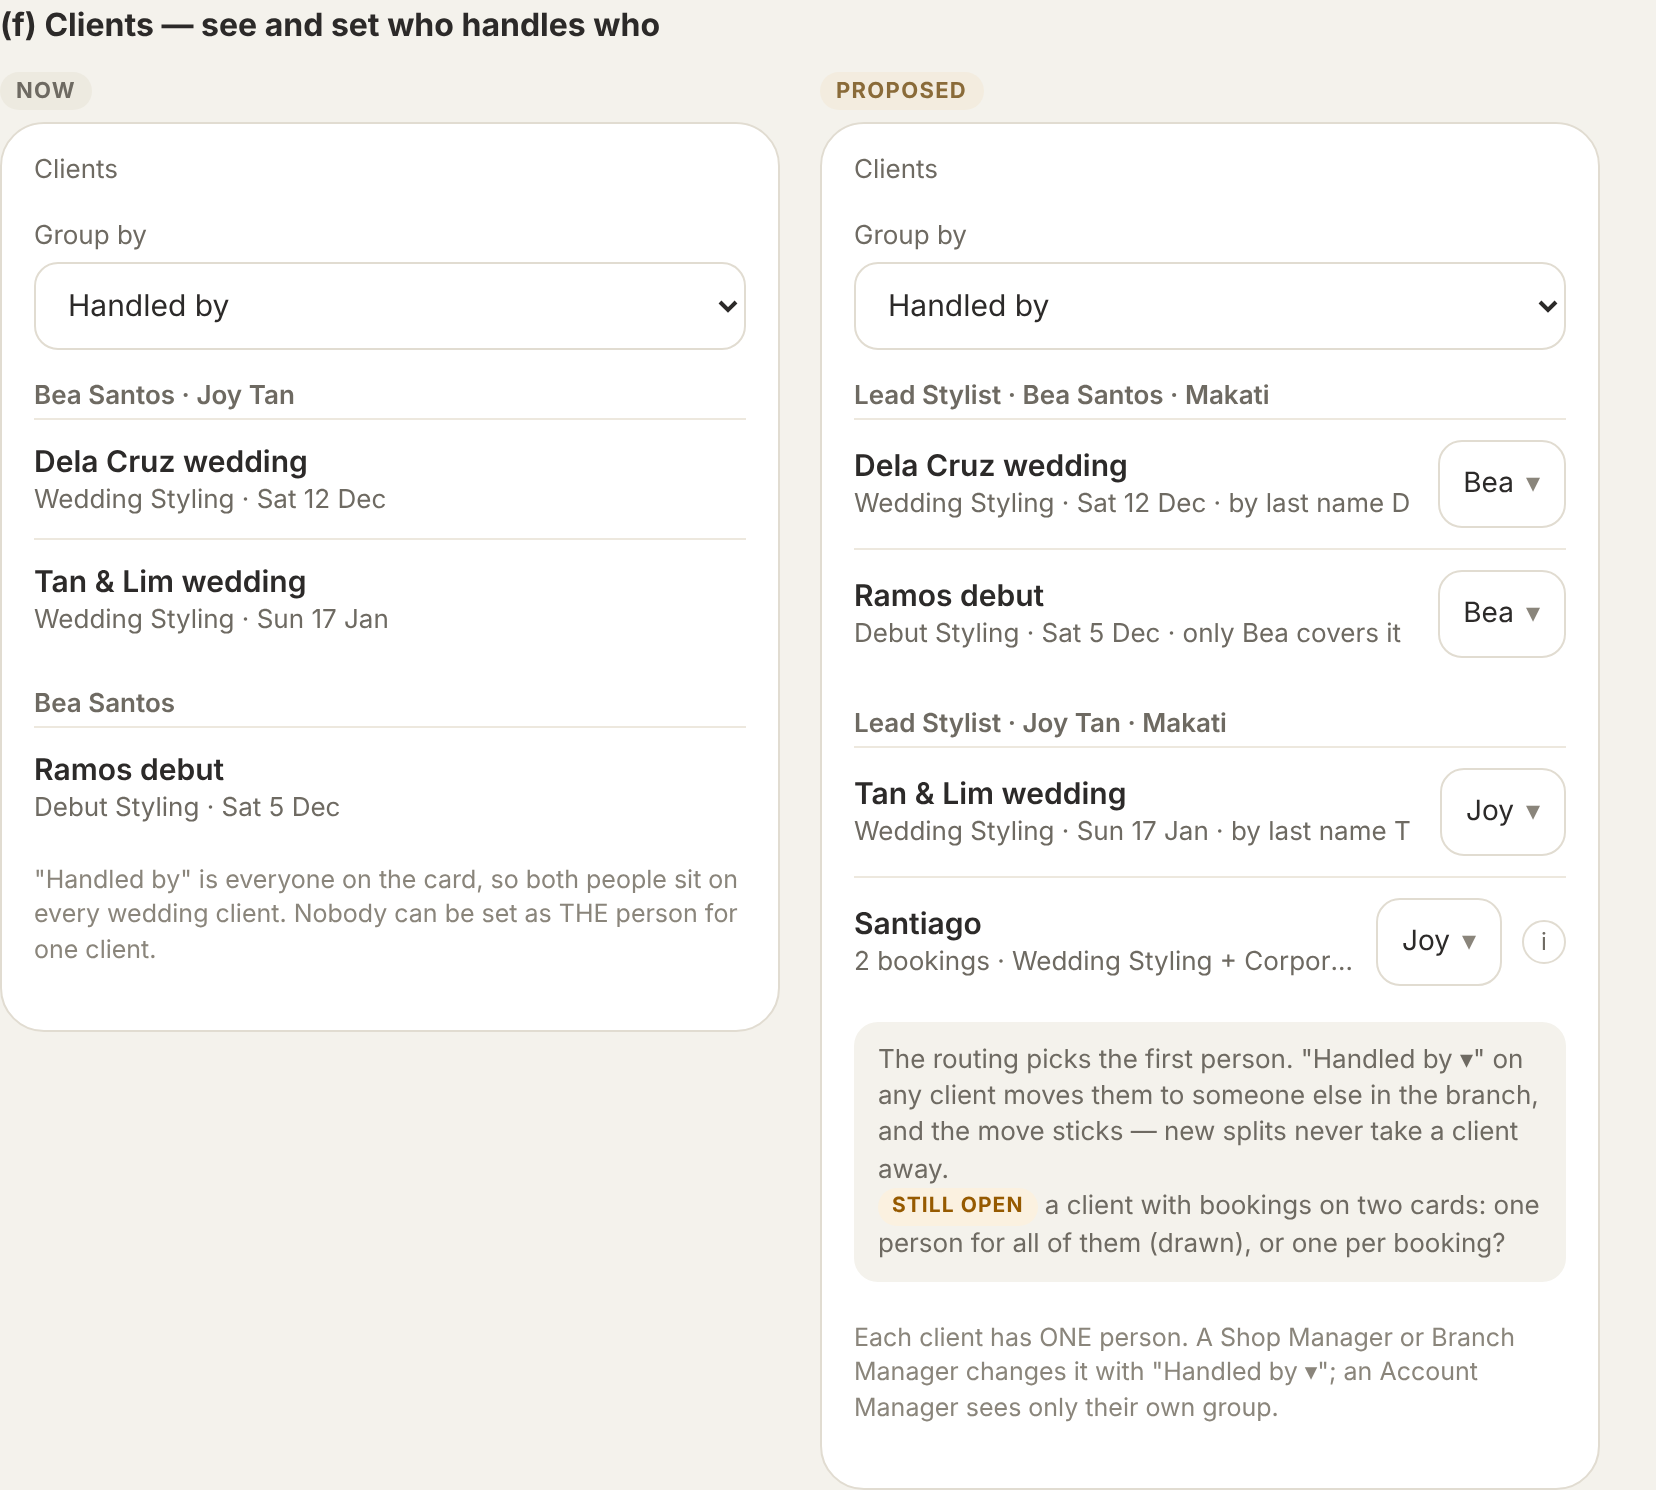
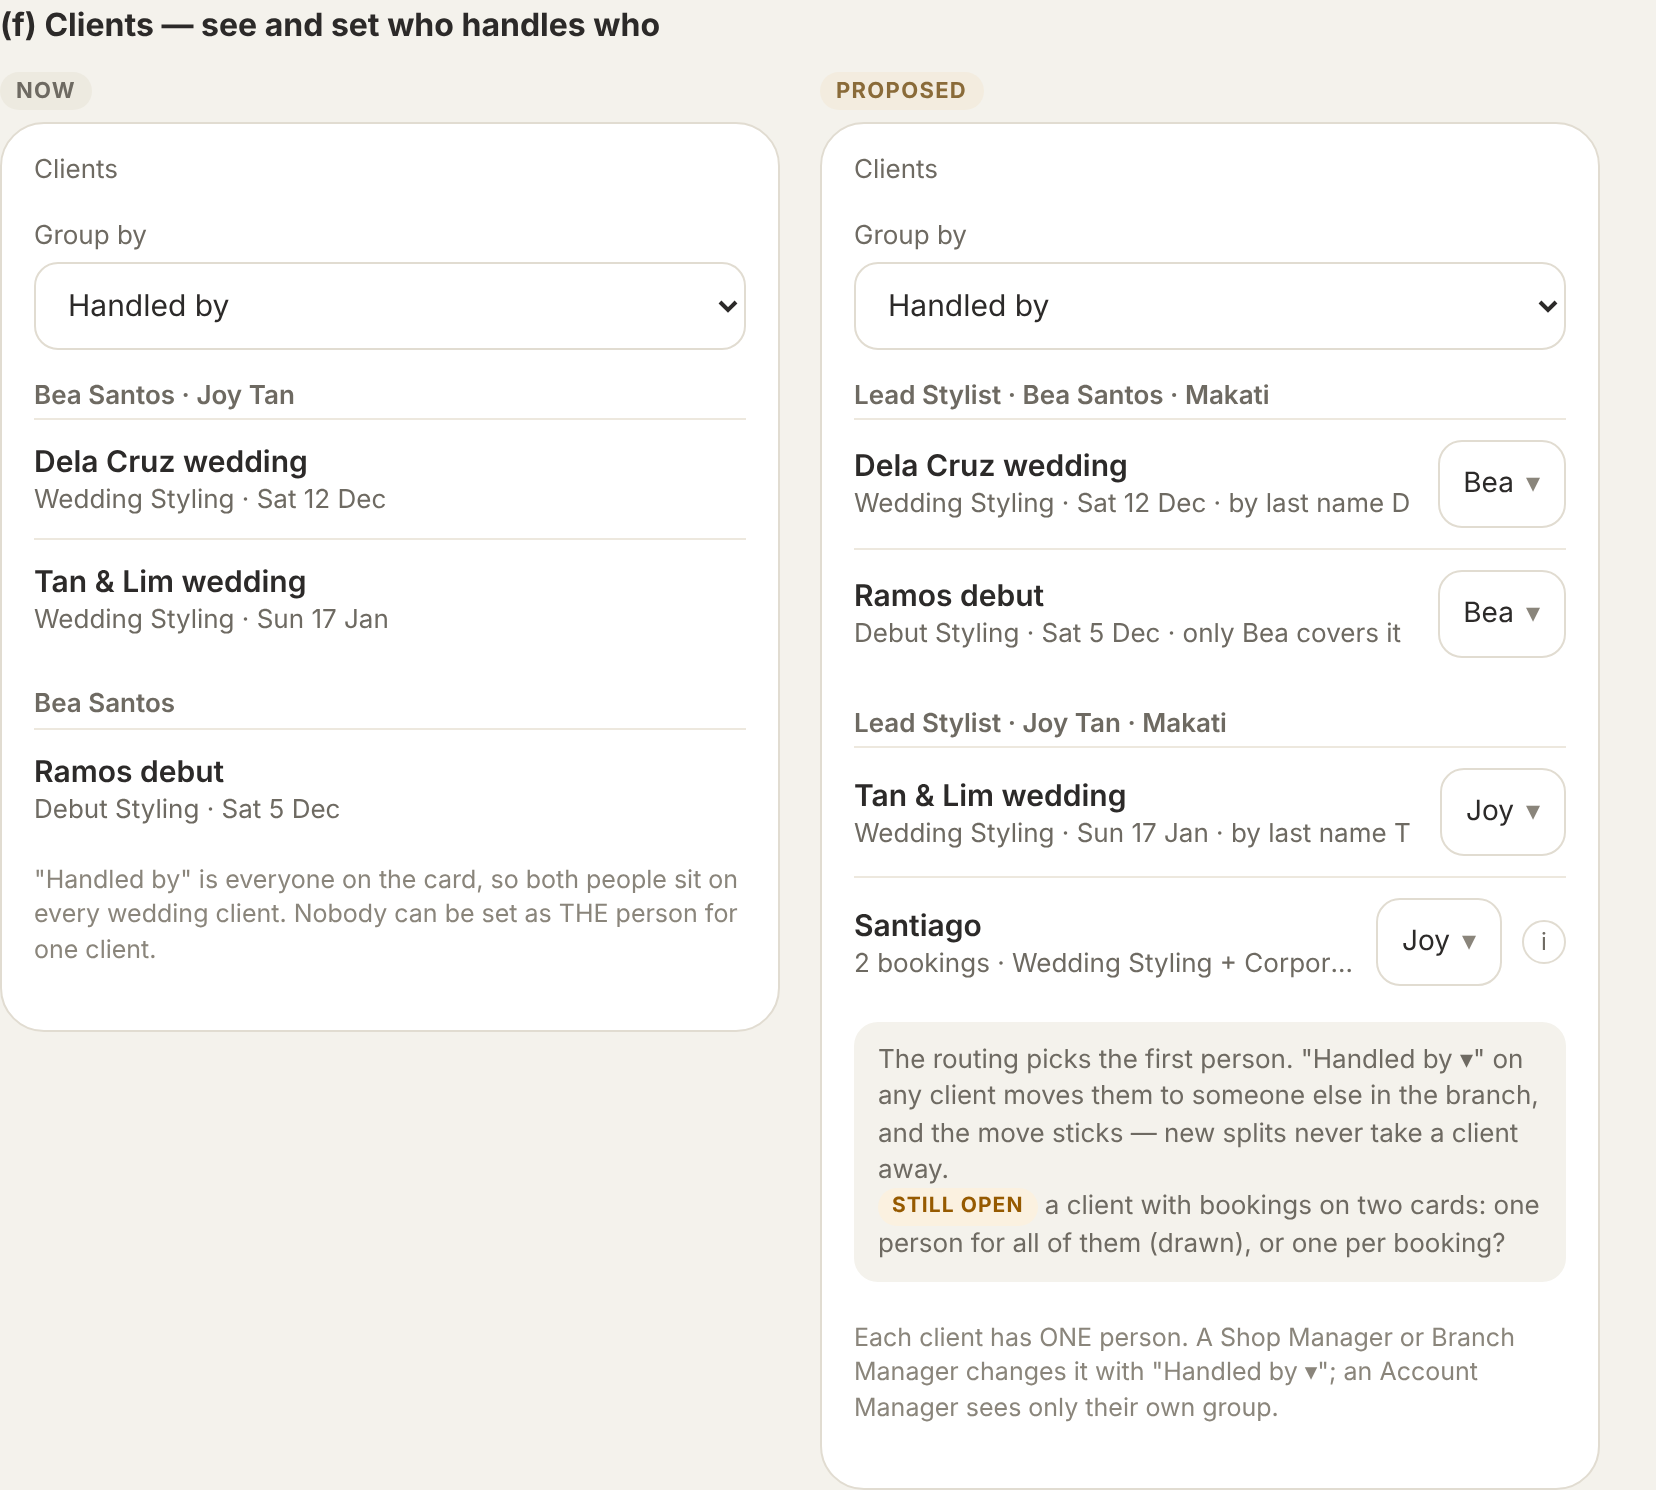
docs(supplier-team): fair inquiry split by last-name quantiles (1 to 10 Account Managers), not half the alphabet
Claude-Session: https://claude.ai/code/session_01EvosmSvHajsHkKkQLLinZb

diff --git a/build-sessions/SUPPLIER-ROLES-PAGE-2026-11-19.html b/build-sessions/SUPPLIER-ROLES-PAGE-2026-11-19.html
@@ -363,12 +363,12 @@
 
             <div class="role" style="margin-top:8px">
               <div class="top"><div class="grow"><div class="t">Wedding Styling card</div><div class="l">Covered by Bea, Joy</div></div></div>
-              <div class="l" style="margin:6px 0 0;font-weight:600">Wedding · split evenly</div>
-              <div class="row" style="min-height:44px"><span class="ava">BS</span><div class="grow"><div class="rolename">Lead Stylist · Bea Santos</div></div><span class="badge">A – M</span></div>
-              <div class="row" style="min-height:44px"><span class="ava">JT</span><div class="grow"><div class="rolename">Lead Stylist · Joy Tan</div></div><span class="badge">N – Z</span><span class="pick btn">Adjust</span></div>
-              <div class="l" style="margin:6px 0 0;font-weight:600">Every other event · split evenly</div>
-              <div class="row" style="min-height:44px"><span class="ava">BS</span><div class="grow"><div class="rolename">Bea Santos</div></div><span class="badge">A – M</span></div>
-              <div class="row" style="min-height:44px"><span class="ava">JT</span><div class="grow"><div class="rolename">Joy Tan</div></div><span class="badge">N – Z</span><span class="pick btn">Adjust</span></div>
+              <div class="l" style="margin:6px 0 0;font-weight:600">Wedding · fair split, from your past clients</div>
+              <div class="row" style="min-height:44px"><span class="ava">BS</span><div class="grow"><div class="rolename">Lead Stylist · Bea Santos</div></div><span class="badge">A – Ma · 51%</span></div>
+              <div class="row" style="min-height:44px"><span class="ava">JT</span><div class="grow"><div class="rolename">Lead Stylist · Joy Tan</div></div><span class="badge">Me – Z · 49%</span><span class="pick btn">Adjust</span></div>
+              <div class="l" style="margin:6px 0 0;font-weight:600">Every other event · fair split, from your past clients</div>
+              <div class="row" style="min-height:44px"><span class="ava">BS</span><div class="grow"><div class="rolename">Bea Santos</div></div><span class="badge">A – K · 50%</span></div>
+              <div class="row" style="min-height:44px"><span class="ava">JT</span><div class="grow"><div class="rolename">Joy Tan</div></div><span class="badge">L – Z · 50%</span><span class="pick btn">Adjust</span></div>
             </div>
             <div class="role">
               <div class="top"><div class="grow"><div class="t">Debut Styling card</div><div class="l">Covered by Bea only</div></div></div>
@@ -383,9 +383,9 @@
 
             <div class="role">
               <div class="t" style="font-size:14px">Adjust · Wedding</div>
-              <div style="display:flex;gap:8px;align-items:center;margin-top:8px"><span class="grow l">Bea Santos takes</span><select style="width:auto"><option>A</option></select><span>–</span><select style="width:auto"><option>K</option><option selected>M</option><option>P</option></select></div>
-              <div class="l" style="margin-top:6px">Joy Tan takes the rest: N – Z</div>
-              <span class="pick btn" style="margin-top:8px">Reset to even</span>
+              <div style="display:flex;gap:8px;align-items:center;margin-top:8px"><span class="grow l">Cut between Bea and Joy at</span><select style="width:auto"><option>L · 44% / 56%</option><option selected>Ma | Me · 51% / 49%</option><option>N · 58% / 42%</option></select></div>
+              <div class="l" style="margin-top:6px">Each choice shows the share of your past wedding clients each person would get. A cut can fall inside a busy letter (Ma | Me).</div>
+              <span class="pick btn" style="margin-top:8px">Reset to fair split</span>
             </div>
 
             <p class="note">
@@ -402,7 +402,7 @@
         <span class="tag new">Proposed · when the branch grows</span>
         <div class="phone" style="width:100%;max-width:820px">
           <div class="scr" style="padding-top:14px">
-            <div class="t">Makati branch · Wedding — the split re-sets itself when an Account Manager joins or leaves</div>
+            <div class="t">Makati branch · Wedding — the fair split re-works itself when an Account Manager joins or leaves</div>
             <div style="display:flex;gap:12px;flex-wrap:wrap;margin-top:10px">
               <div style="flex:1 1 220px;border:1px solid var(--line);border-radius:14px;padding:10px 12px">
                 <div class="l">1 Account Manager</div>
@@ -410,17 +410,30 @@
               </div>
               <div style="flex:1 1 220px;border:1px solid var(--line);border-radius:14px;padding:10px 12px">
                 <div class="l">+ Joy joins → 2</div>
-                <div class="row" style="min-height:40px"><div class="grow">Bea</div><span class="badge">A – M</span></div>
-                <div class="row" style="min-height:40px"><div class="grow">Joy</div><span class="badge">N – Z</span></div>
+                <div class="row" style="min-height:40px"><div class="grow">Bea</div><span class="badge">A – Ma · 51%</span></div>
+                <div class="row" style="min-height:40px"><div class="grow">Joy</div><span class="badge">Me – Z · 49%</span></div>
               </div>
               <div style="flex:1 1 220px;border:1px solid var(--line);border-radius:14px;padding:10px 12px">
                 <div class="l">+ Mark joins → 3</div>
-                <div class="row" style="min-height:40px"><div class="grow">Bea</div><span class="badge">A – H</span></div>
-                <div class="row" style="min-height:40px"><div class="grow">Joy</div><span class="badge">I – Q</span></div>
-                <div class="row" style="min-height:40px"><div class="grow">Mark</div><span class="badge">R – Z</span></div>
+                <div class="row" style="min-height:40px"><div class="grow">Bea</div><span class="badge">A – Da · 34%</span></div>
+                <div class="row" style="min-height:40px"><div class="grow">Joy</div><span class="badge">De – Ma · 33%</span></div>
+                <div class="row" style="min-height:40px"><div class="grow">Mark</div><span class="badge">Me – Z · 33%</span></div>
               </div>
             </div>
-            <p class="note">Even means by letters, in the order people joined. Someone leaving re-splits the same way (3 → 2 goes back to A–M / N–Z). Inquiries already given out stay with the person who has them. A split a Shop or Branch Manager adjusted is not re-set — they get a note "Joy joined · Reset to even?" instead.</p>
+            <div style="margin-top:14px;overflow-x:auto">
+              <div class="t" style="font-size:14px">The same rule from 1 up to 10 Account Managers on one card and event type</div>
+              <table style="border-collapse:collapse;font-size:13px;margin-top:6px;width:100%">
+                <thead><tr style="text-align:left;color:var(--slate-2)"><th style="padding:4px 8px">People</th><th style="padding:4px 8px">Cuts</th><th style="padding:4px 8px">Cut where the running total reaches</th><th style="padding:4px 8px">Each gets</th></tr></thead>
+                <tbody><tr><td style="padding:4px 8px">1</td><td style="padding:4px 8px">0</td><td style="padding:4px 8px">— (A – Z)</td><td style="padding:4px 8px">≈ 100%</td></tr><tr><td style="padding:4px 8px">2</td><td style="padding:4px 8px">1</td><td style="padding:4px 8px">50%</td><td style="padding:4px 8px">≈ 50%</td></tr><tr><td style="padding:4px 8px">3</td><td style="padding:4px 8px">2</td><td style="padding:4px 8px">33.3% · 66.7%</td><td style="padding:4px 8px">≈ 33.3%</td></tr><tr><td style="padding:4px 8px">4</td><td style="padding:4px 8px">3</td><td style="padding:4px 8px">25% · 50% · 75%</td><td style="padding:4px 8px">≈ 25%</td></tr><tr><td style="padding:4px 8px">5</td><td style="padding:4px 8px">4</td><td style="padding:4px 8px">20% · 40% · 60% · 80%</td><td style="padding:4px 8px">≈ 20%</td></tr><tr><td style="padding:4px 8px">6</td><td style="padding:4px 8px">5</td><td style="padding:4px 8px">16.7% · 33.3% · 50% · 66.7% · 83.3%</td><td style="padding:4px 8px">≈ 16.7%</td></tr><tr><td style="padding:4px 8px">7</td><td style="padding:4px 8px">6</td><td style="padding:4px 8px">14.3% · 28.6% · 42.9% · 57.1% · 71.4% · 85.7%</td><td style="padding:4px 8px">≈ 14.3%</td></tr><tr><td style="padding:4px 8px">8</td><td style="padding:4px 8px">7</td><td style="padding:4px 8px">12.5% · 25% · 37.5% · 50% · 62.5% · 75% · 87.5%</td><td style="padding:4px 8px">≈ 12.5%</td></tr><tr><td style="padding:4px 8px">9</td><td style="padding:4px 8px">8</td><td style="padding:4px 8px">11.1% · 22.2% · 33.3% · 44.4% · 55.6% · 66.7% · 77.8% · 88.9%</td><td style="padding:4px 8px">≈ 11.1%</td></tr><tr><td style="padding:4px 8px">10</td><td style="padding:4px 8px">9</td><td style="padding:4px 8px">10% · 20% · 30% · 40% · 50% · 60% · 70% · 80% · 90%</td><td style="padding:4px 8px">≈ 10%</td></tr></tbody>
+              </table>
+              <p class="note">Every time someone joins or leaves, the cuts are worked out again from the counts, so 4, 5 … 10 people each get about the same share of clients, not the same number of letters. With many people a cut often falls inside a letter (Sa | Se). <span class="confirm">STILL OPEN</span> is 10 the most Account Managers one card can have in a branch? (Ultra has 12 seats.)</p>
+            </div>
+            <p class="note"><b>Fair, not alphabetical.</b> Busy letters (in the Philippines: D, R, M, S, C, G…) would overload whoever holds them, so the cut points come from counts, not from halving the alphabet:
+              ① count the shop's past clients on this card and event type by the first letter of the celebrant's last name · ② turn the counts into shares · ③ add them up A → Z · ④ cut where the running total reaches 1/2 (two people) or 1/3 and 2/3 (three people). A cut may fall inside a letter (Ma | Me). The letters stay in A–Z blocks so anyone can tell who has "Santos".<br>
+              Someone joining or leaving re-works it the same way. Inquiries already given out stay put. A split a manager adjusted is not re-worked — they get "Mark joined · Reset to fair split?".<br>
+              <b>The percentages here are SAMPLE numbers</b> to show the shape; the real cuts are worked out from each shop's own clients.<br>
+              <span class="confirm">STILL OPEN</span> too few past clients (a new shop): drawn — use the counts across all Setnayan inquiries until the shop has its own. How many is "enough" is yours to set.<br>
+              <span class="confirm">STILL OPEN</span> compound names (Dela Cruz, De Guzman): drawn — filed as written, under D; the counts already make D's share bigger, so the cut moves inside D (De | Di) by itself.</p>
           </div>
         </div>
       </div>

diff --git a/build-sessions/SUPPLIER-ROLES-MAP-2026-11-19.md b/build-sessions/SUPPLIER-ROLES-MAP-2026-11-19.md
@@ -159,9 +159,18 @@ Proposed:
 - **Last name** = a letter range per Account Manager. New table `vendor_inquiry_routes(vendor_profile_id, branch_key,
   event_type NULL = every other, vendor_team_member_id, letter_from, letter_to, adjusted BOOLEAN)`, RLS at create
   (`current_vendor_ids('viewer')` read · Shop Manager / that branch's Branch Manager write).
-- **Even split, by itself:** when an Account Manager joins or leaves a branch, each route row for that branch that is NOT
-  `adjusted` re-splits A–Z evenly by letter, in join order (1 → A–Z · 2 → A–M / N–Z · 3 → A–H / I–Q / R–Z). An adjusted
-  split is left alone and the manager sees "X joined · Reset to even?". Inquiries already handed out never move.
+- **Fair split, by itself (owner 19 Nov — quantiles, not half the alphabet):** cut points come from a cumulative
+  frequency of the FIRST LETTERS of past clients' celebrant last names, per (card, event type): count → share → running
+  total A→Z → cut at k/n for n Account Managers. Cuts may fall inside a letter (two-letter prefixes, `Ma | Me`), so a route
+  row stores `prefix_from` / `prefix_to` (text, 1–2 letters) instead of single letters. Blocks stay alphabetical (no snake
+  draft): staff must be able to tell who holds "Santos", and a re-split must not scatter every letter. Runs when an
+  Account Manager joins/leaves; rows a manager `adjusted` are left alone ("Reset to fair split?"). Inquiries already given
+  out never move. General for n = 1 … 10 (owner 19 Nov: *"3,4,5,6,7,8,9 up to 10"*): cuts at k/n, k = 1 … n−1; whether 10 is
+  a cap per card per branch is STILL OPEN.
+  out never move. The pasted reference figures (a PH "A–L / M–Z" cut, US letter percentages) are NOT used — they are not
+  measured from our data. **STILL OPEN:** the fallback for a shop with too few past clients (drawn: Setnayan-wide counts
+  across all inquiries) and the threshold for "enough" · compound surnames (drawn: filed as written, Dela Cruz under D —
+  the counts move the cut inside D by themselves).
 - The inquiry gets an owner: a new `assigned_member_id` on the inquiry thread, set once when it arrives.
 - **DECIDED (owner 19 Nov):** whose last name counts — *"the main celebrant/groom/who sent it"*, read as: the main
   celebrant's last name (the groom for a wedding), falling back to the sender's when the inquiry has none · when that Account Manager is away
